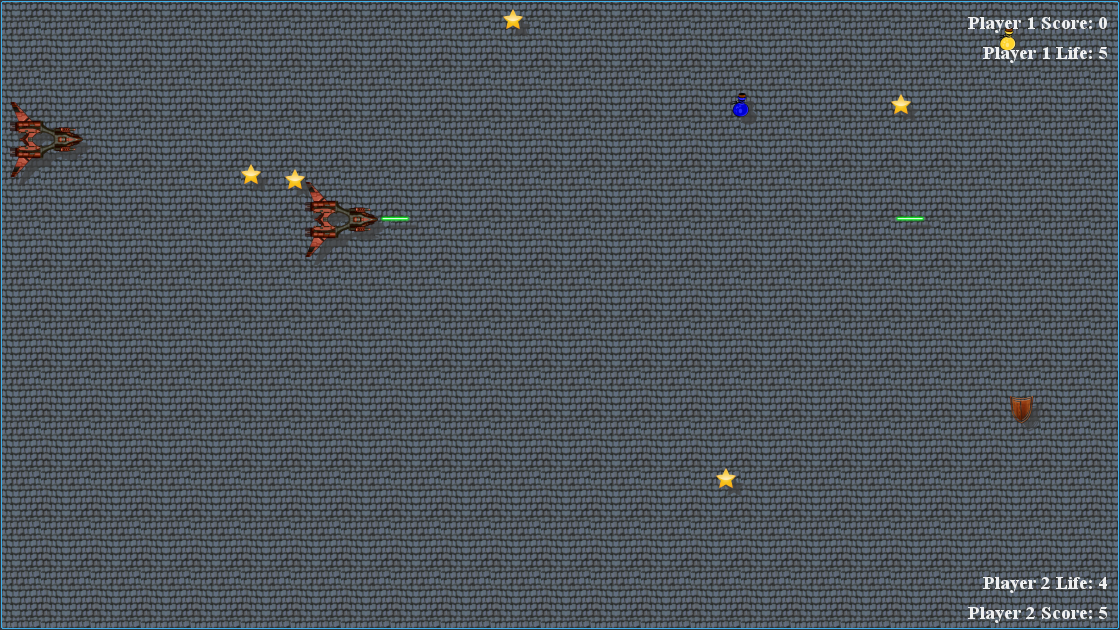
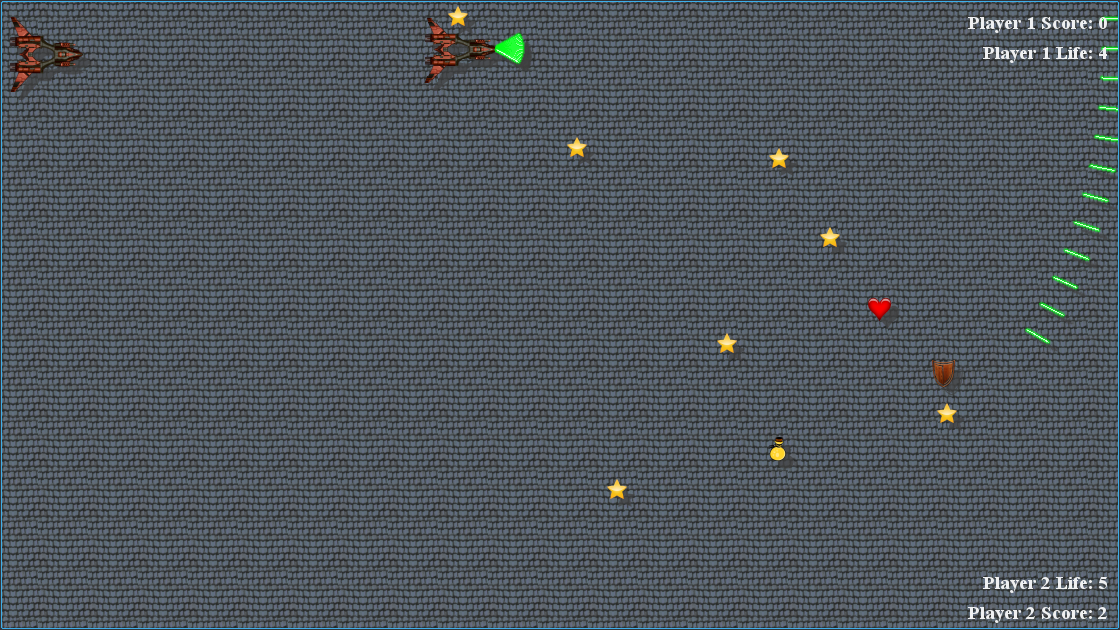
Project Update

diff --git a/Sources/Source Files/MyAi.cpp b/Sources/Source Files/MyAi.cpp
@@ -19,6 +19,14 @@ void MyAi::gnrt_cmmnds() {
 	QList<QGraphicsItem *> itms = shp->scene()->items();
 	QGraphicsItem *nrst_itm = itms.first();
 			foreach (QGraphicsItem *i, itms) {
+			if (shp->scene()->views().first()->sceneRect().right() < i->sceneBoundingRect().left())
+				continue;
+			if (dynamic_cast<MyLife *>(i) || dynamic_cast<MyMagic *>(i) || dynamic_cast<MyShield *>(i) ||
+			    dynamic_cast<MyStar *>(i)) {
+				nrst_itm = i;
+			}
+		}
+			foreach (QGraphicsItem *i, itms) {
 			double dx = i->pos().x() + i->boundingRect().width() / 2 - shp->pos().x();
 			double dy = i->pos().y() + i->boundingRect().height() / 2 - shp->pos().y();
 			double dx_cur = nrst_itm->pos().x() + nrst_itm->boundingRect().width() / 2 - shp->pos().x();
@@ -28,19 +36,25 @@ void MyAi::gnrt_cmmnds() {
 				nrst_itm = i;
 			}
 		}
-	if (shp->sceneBoundingRect().right() - shp->boundingRect().width() / 2 <
+	if ((dynamic_cast<MyLife *>(nrst_itm) || dynamic_cast<MyMagic *>(nrst_itm) || dynamic_cast<MyShield *>(nrst_itm) ||
+	     dynamic_cast<MyStar *>(nrst_itm)) && shp->sceneBoundingRect().right() - shp->boundingRect().width() / 2 <
 	    nrst_itm->sceneBoundingRect().left() + nrst_itm->boundingRect().width() / 2) {
 		cmmnds->insert(-Qt::Key_D);
 	}
-	else if (shp->sceneBoundingRect().left() + shp->boundingRect().width() / 2 >
+	else if ((dynamic_cast<MyLife *>(nrst_itm) || dynamic_cast<MyMagic *>(nrst_itm) ||
+	          dynamic_cast<MyShield *>(nrst_itm) ||
+	          dynamic_cast<MyStar *>(nrst_itm)) && shp->sceneBoundingRect().left() + shp->boundingRect().width() / 2 >
 	         nrst_itm->sceneBoundingRect().right() - nrst_itm->boundingRect().width() / 2) {
 		cmmnds->insert(-Qt::Key_A);
 	}
-	if (shp->sceneBoundingRect().bottom() - shp->boundingRect().height() / 2 <
+	if ((dynamic_cast<MyLife *>(nrst_itm) || dynamic_cast<MyMagic *>(nrst_itm) || dynamic_cast<MyShield *>(nrst_itm) ||
+	     dynamic_cast<MyStar *>(nrst_itm)) && shp->sceneBoundingRect().bottom() - shp->boundingRect().height() / 2 <
 	    nrst_itm->sceneBoundingRect().top() + nrst_itm->boundingRect().height() / 2) {
 		cmmnds->insert(-Qt::Key_S);
 	}
-	else if (shp->sceneBoundingRect().top() + shp->boundingRect().height() / 2 >
+	else if ((dynamic_cast<MyLife *>(nrst_itm) || dynamic_cast<MyMagic *>(nrst_itm) ||
+	          dynamic_cast<MyShield *>(nrst_itm) ||
+	          dynamic_cast<MyStar *>(nrst_itm)) && shp->sceneBoundingRect().top() + shp->boundingRect().height() / 2 >
 	         nrst_itm->sceneBoundingRect().bottom() - nrst_itm->boundingRect().height() / 2) {
 		cmmnds->insert(-Qt::Key_W);
 	}
